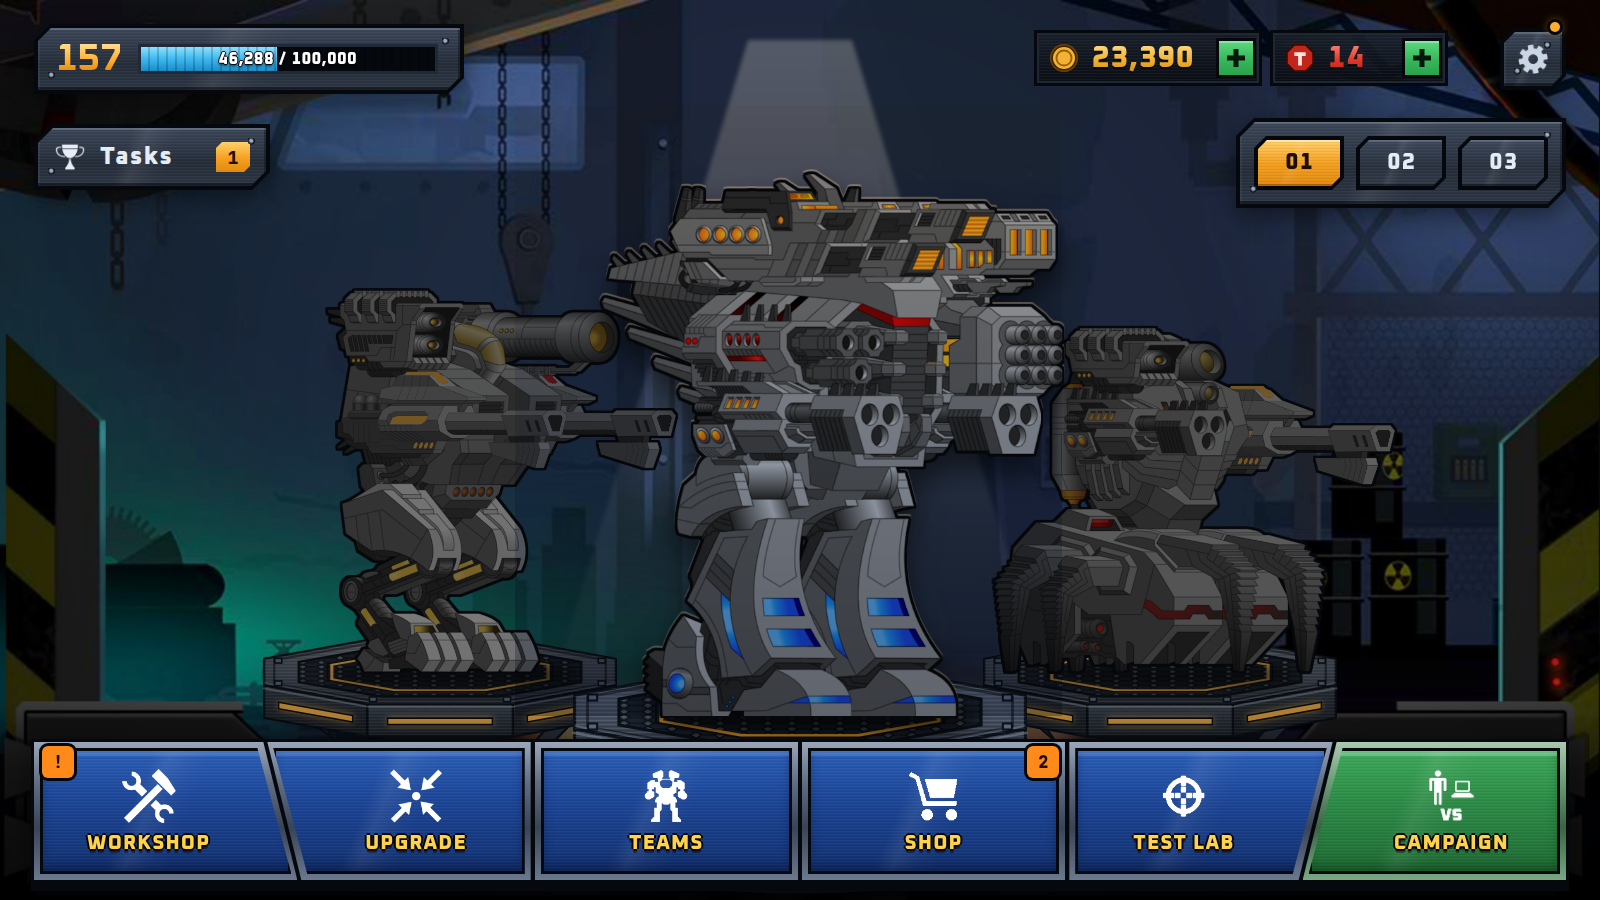
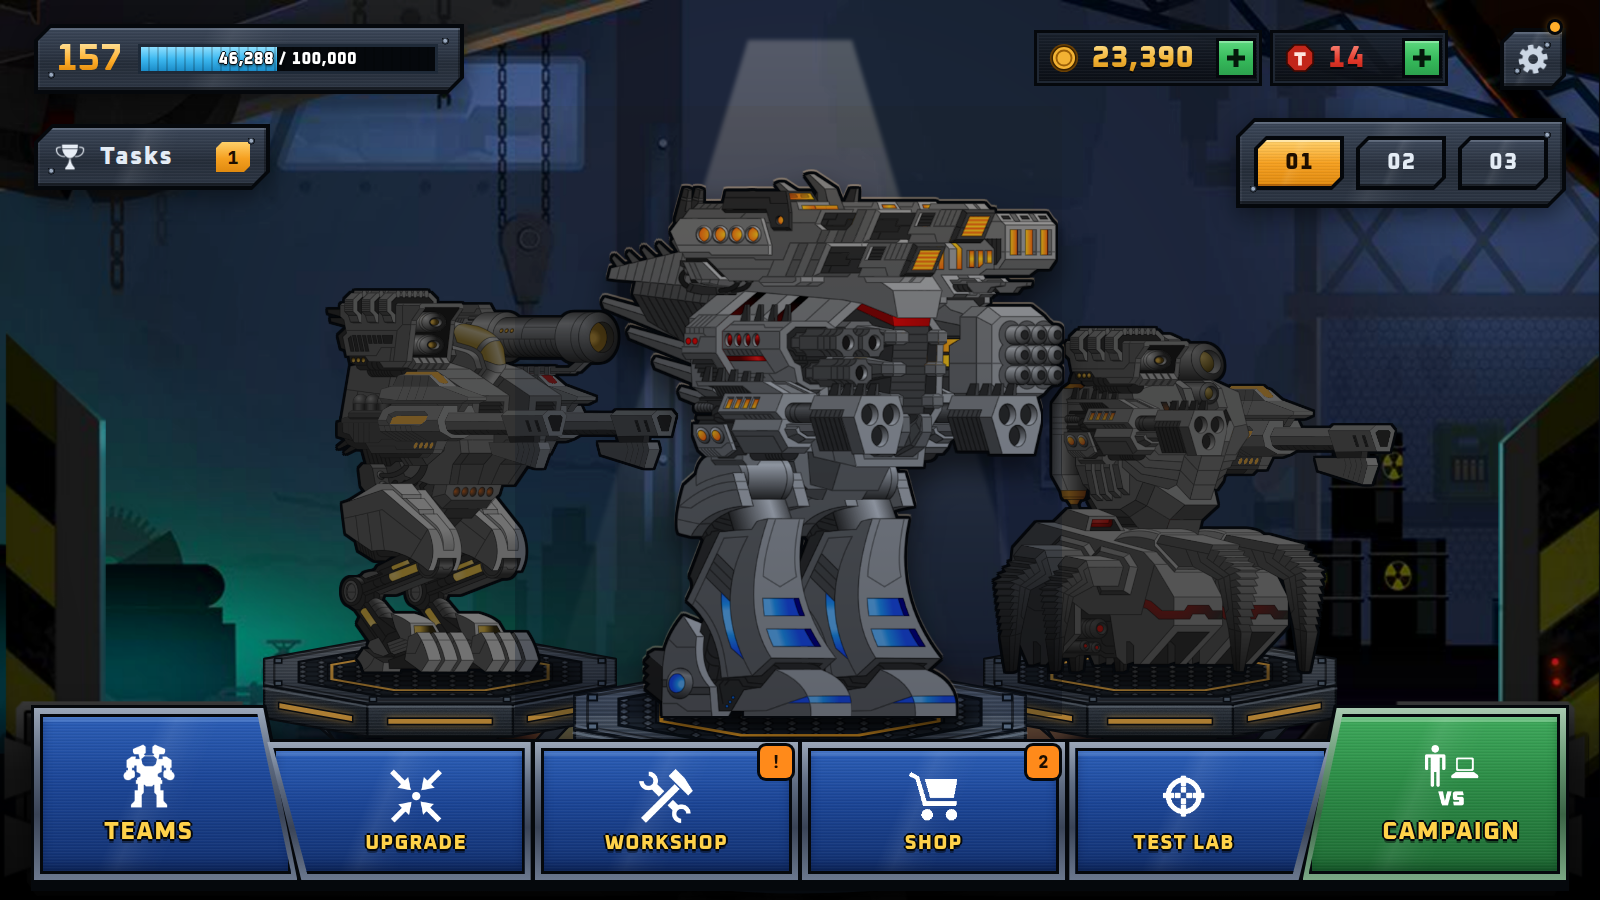
Reorder bottom row and raise the end buttons
Teams, Upgrade, Workshop, Shop, Test Lab, Campaign; Teams and Campaign stand
taller than the middle four.

Claude-Session: https://claude.ai/code/session_016EMeU7WbdybdkHaQ4QiAx5

diff --git a/ui/mocks/H-bay.html b/ui/mocks/H-bay.html
@@ -278,6 +278,12 @@ canvas{position:absolute;left:0;top:0;width:1600px;height:900px}
 .slot:nth-child(6)>.fc{padding-left:var(--d)}
 .slot.camp{background:linear-gradient(180deg,#a8c9b0,#6a9a76 30%,#3b6446 62%,#7aa885)!important}
 .slot.camp>.fc{background:var(--sheen),var(--brush),linear-gradient(180deg,#3faa5c,#2b8a45 45%,#1f6a34)!important;box-shadow:inset 0 0 0 3px #05080c,inset 0 5px 0 3px rgba(225,255,230,.3),inset 0 -8px 12px rgba(0,40,15,.45)}
+
+.rack{top:708px!important;height:172px!important;align-items:flex-end!important}
+.slot{height:138px!important}
+.slot:nth-child(1),.slot:nth-child(6){height:172px!important}
+.slot:nth-child(1) .mask,.slot:nth-child(6) .mask{width:70px!important;height:70px!important}
+.slot:nth-child(1) span,.slot:nth-child(6) span{font-size:24px!important}
 </style></head>
 <body>
 <div class="stage">
@@ -397,12 +403,13 @@ canvas{position:absolute;left:0;top:0;width:1600px;height:900px}
   <!-- dock -->
   
   <div class="rack">
-    <div class="slot"><div class="fc"><i class="mask" style="--i:url(assets/icons/interface_hanger.png)"></i><span>Workshop</span></div><b class="pip">!</b></div>
-    <div class="slot"><div class="fc"><i class="mask" style="--i:url(assets/icons/interface_fusion.png)"></i><span>Upgrade</span></div></div>
     <div class="slot"><div class="fc"><i class="mask" style="--i:url(assets/icons/interface_mech.png)"></i><span>Teams</span></div></div>
+    <div class="slot"><div class="fc"><i class="mask" style="--i:url(assets/icons/interface_fusion.png)"></i><span>Upgrade</span></div></div>
+    <div class="slot"><div class="fc"><i class="mask" style="--i:url(assets/icons/interface_hanger.png)"></i><span>Workshop</span></div><b class="pip">!</b></div>
     <div class="slot"><div class="fc"><i class="mask" style="--i:url(assets/icons/interface_shop.png)"></i><span>Shop</span></div><b class="pip">2</b></div>
     <div class="slot"><div class="fc"><i class="mask" style="--i:url(assets/icons/action_weapons.png)"></i><span>Test Lab</span></div></div>
     <div class="slot camp"><div class="fc"><i class="mask" style="--i:url(assets/icons/interface_battle_singlePlayer.png)"></i><span>Campaign</span></div></div>
+  </div>
   </div>
 </div>
 <script src="assets/mech.js"></script>
